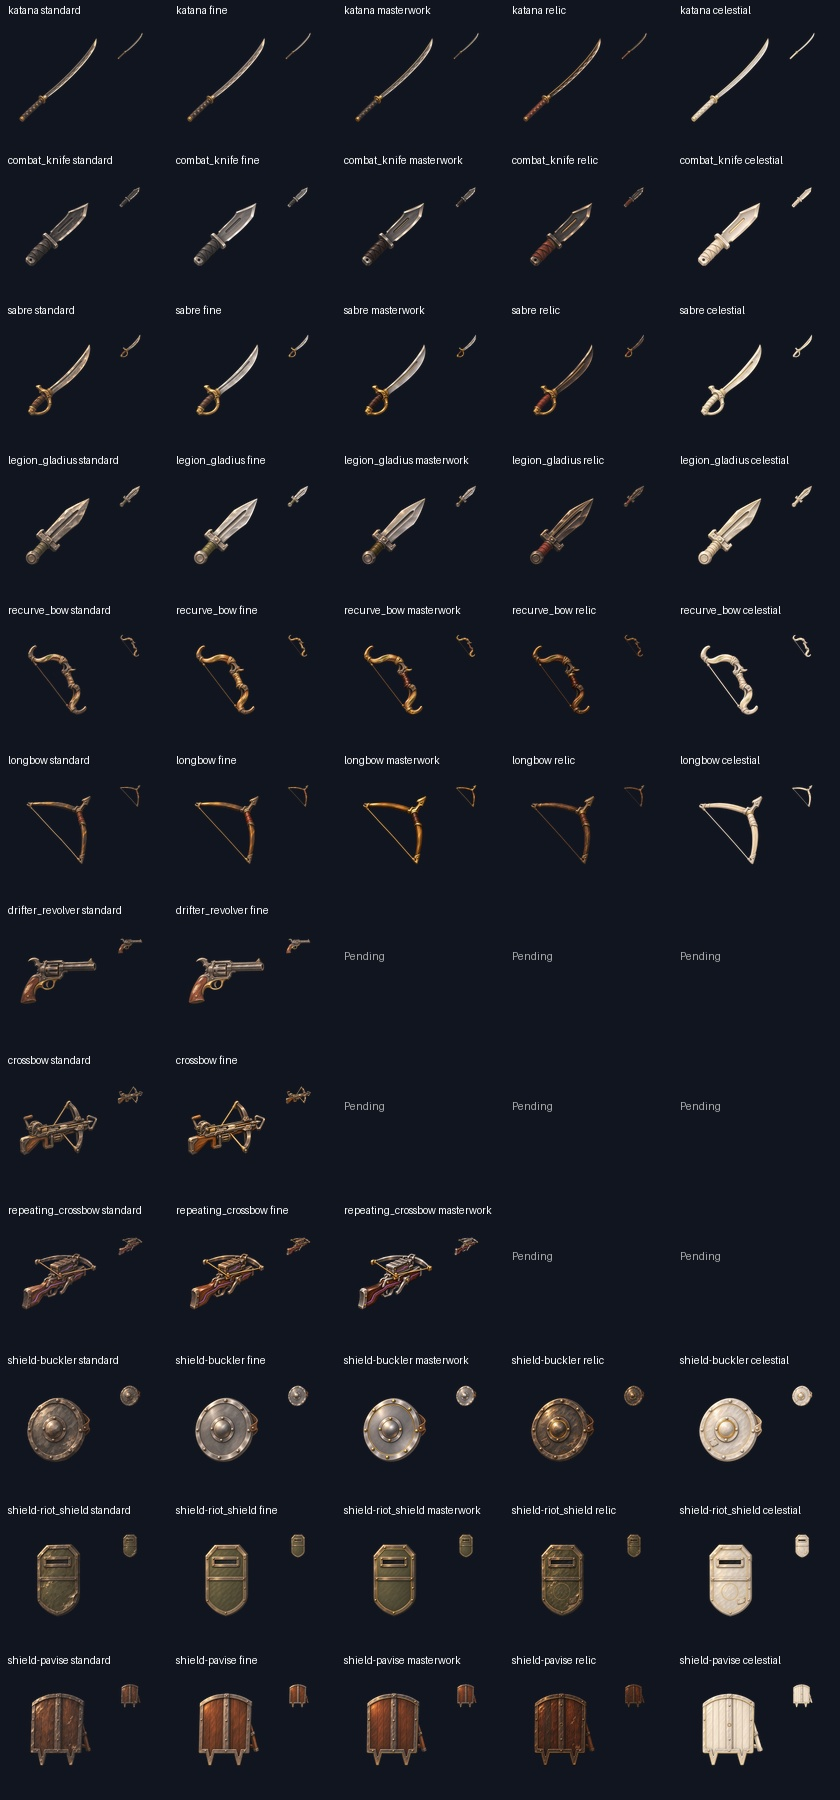
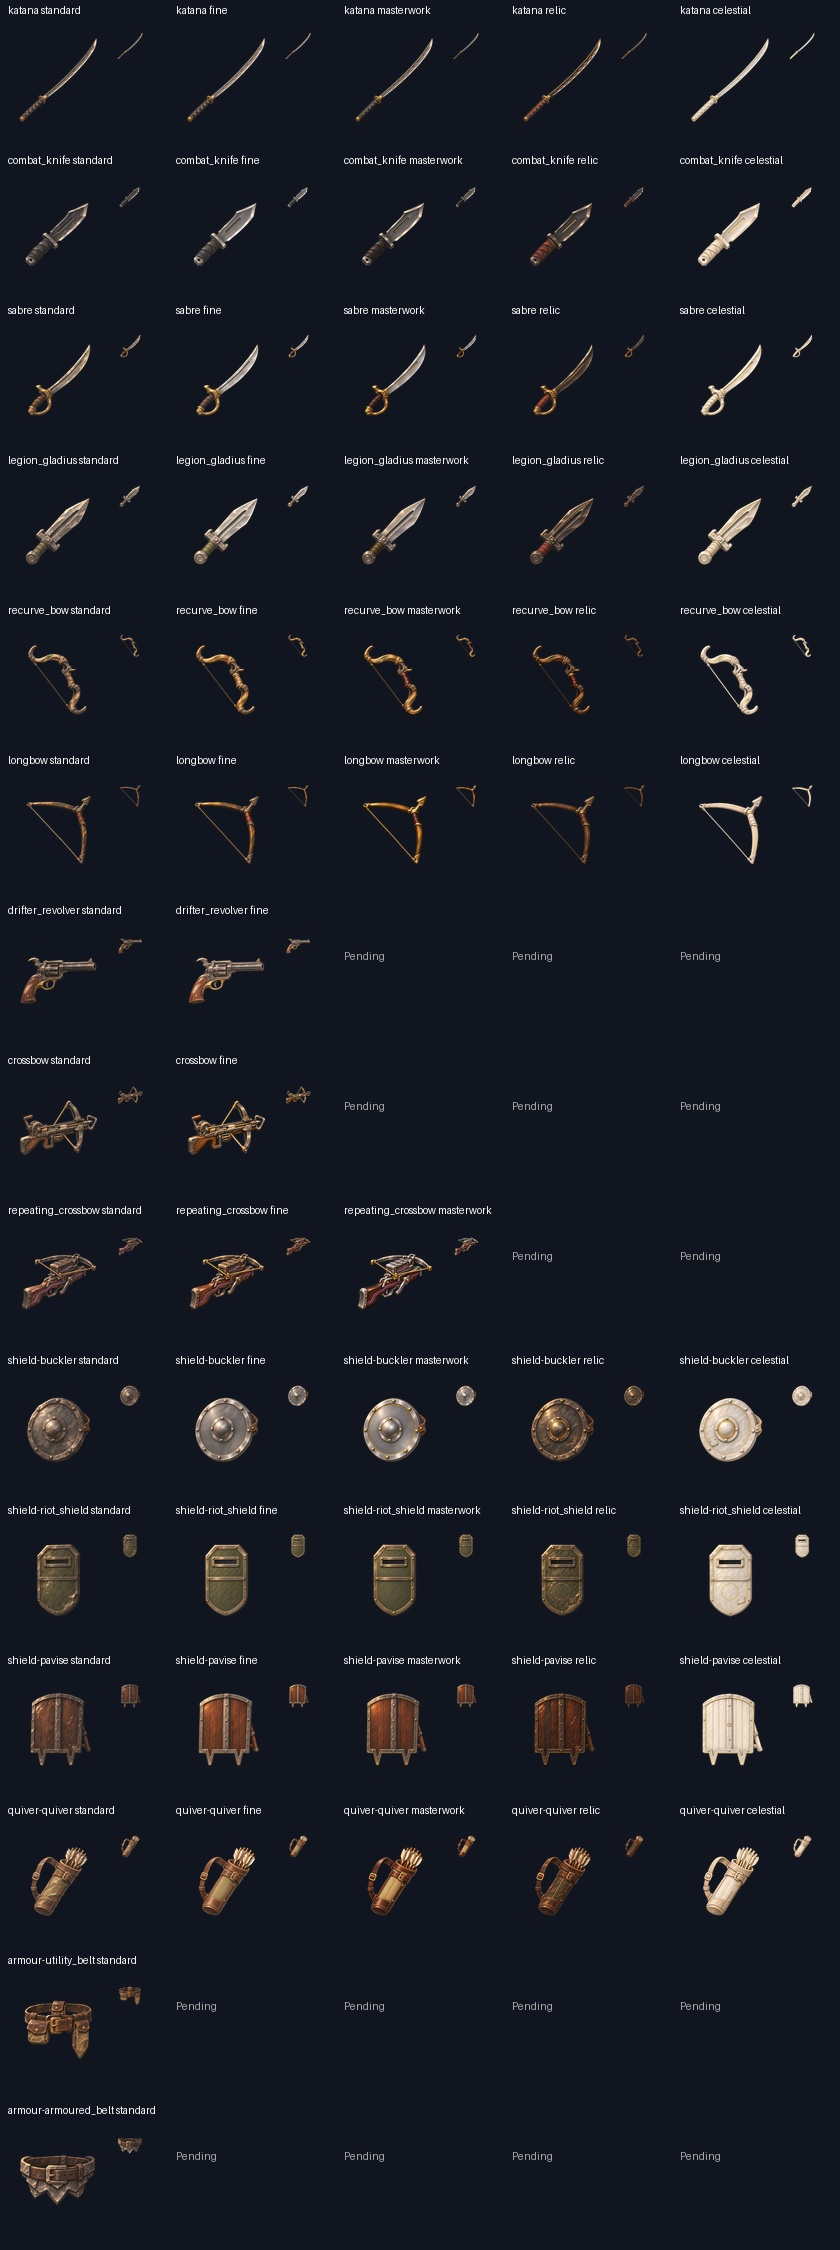
Deliver quiver-quiver fine review candidate

diff --git a/art/_archive/prompt-pack/2026-11-19-file-08/prepare-candidates.py b/art/_archive/prompt-pack/2026-11-19-file-08/prepare-candidates.py
@@ -4,7 +4,7 @@ from PIL import Image,ImageDraw
 import numpy as np
 A=Path(__file__).resolve().parent.relative_to(Path.cwd().resolve())
 def stem(ident):return ident if ident.startswith(('shield-','armour-','focus-','quiver-')) else 'weapon-'+ident
-ids=('katana','combat_knife','sabre','legion_gladius','recurve_bow','longbow','drifter_revolver','crossbow','repeating_crossbow','shield-buckler','shield-riot_shield','shield-pavise')
+ids=('katana','combat_knife','sabre','legion_gladius','recurve_bow','longbow','drifter_revolver','crossbow','repeating_crossbow','shield-buckler','shield-riot_shield','shield-pavise','quiver-quiver','armour-utility_belt','armour-armoured_belt')
 tiers=('fine','masterwork','relic','celestial')
 manifest=[]
 out=Image.new('RGB',(840,150*len(ids)),'#10151F')
